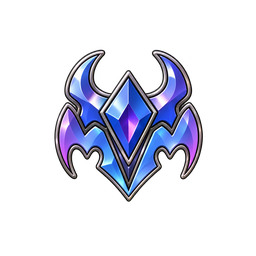
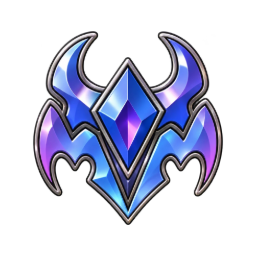
Scale the Sovereign badge to match the other gym badges

diff --git a/activities/pokemon-league/index.html b/activities/pokemon-league/index.html
@@ -20,7 +20,7 @@
 <p>There are eighteen main Gyms in Stellara, each specializing in a different Pokémon type and located within one of the region's settlements. Although other Gyms exist throughout Stellara, these eighteen are officially recognized as part of the main League circuit. Trainers only need to obtain <b>eight Gym Badges</b> to qualify for the Champion Cup, and Gyms may be challenged in any order.</p>
 <h2 id="gyms-and-badges">Gyms and Badges</h2>
 <p class="hint">Select a badge to see its Gym type and where the Gym is.</p>
-<div class="fl crests gyms" id="gym-badges"><div class="fc" style="--t:#aab7bd"><button class="fcb" type="button" aria-pressed="false" aria-label="Alloy Badge. Show the Gym type and place."><span class="in"><span class="f"><span class="art"><img src="../../assets/badges/256/steel.png" alt="" width="256" height="256" loading="lazy"></span><span class="nm">Alloy</span></span><span class="bk"><b>Alloy</b><span class="ty">Steel</span></span></span></button><a class="loc" href="../../region/settlements/cyngi-city/" hidden><svg viewBox="0 0 24 24" aria-hidden="true"><path d="M12 21s-6-5.4-6-10a6 6 0 0 1 12 0c0 4.6-6 10-6 10z"/><circle cx="12" cy="11" r="2.2"/></svg>Cyngi City</a></div><div class="fc" style="--t:#f2c14e"><button class="fcb" type="button" aria-pressed="false" aria-label="Voltage Badge. Show the Gym type and place."><span class="in"><span class="f"><span class="art"><img src="../../assets/badges/256/electric.png" alt="" width="256" height="256" loading="lazy"></span><span class="nm">Voltage</span></span><span class="bk"><b>Voltage</b><span class="ty">Electric</span></span></span></button><a class="loc" href="../../region/settlements/lacaille-city/" hidden><svg viewBox="0 0 24 24" aria-hidden="true"><path d="M12 21s-6-5.4-6-10a6 6 0 0 1 12 0c0 4.6-6 10-6 10z"/><circle cx="12" cy="11" r="2.2"/></svg>Lacaille City</a></div><div class="fc" style="--t:#c9a27a"><button class="fcb" type="button" aria-pressed="false" aria-label="Monolith Badge. Show the Gym type and place."><span class="in"><span class="f"><span class="art"><img src="../../assets/badges/256/rock.png" alt="" width="256" height="256" loading="lazy"></span><span class="nm">Monolith</span></span><span class="bk"><b>Monolith</b><span class="ty">Rock</span></span></span></button><a class="loc" href="../../region/settlements/pavo-town/" hidden><svg viewBox="0 0 24 24" aria-hidden="true"><path d="M12 21s-6-5.4-6-10a6 6 0 0 1 12 0c0 4.6-6 10-6 10z"/><circle cx="12" cy="11" r="2.2"/></svg>Pavo Town</a></div><div class="fc" style="--t:#9d8fc9"><button class="fcb" type="button" aria-pressed="false" aria-label="Eclipse Badge. Show the Gym type and place."><span class="in"><span class="f"><span class="art"><img src="../../assets/badges/256/dark.png" alt="" width="256" height="256" loading="lazy"></span><span class="nm">Eclipse</span></span><span class="bk"><b>Eclipse</b><span class="ty">Dark</span></span></span></button><a class="loc" href="../../region/settlements/vega-city/" hidden><svg viewBox="0 0 24 24" aria-hidden="true"><path d="M12 21s-6-5.4-6-10a6 6 0 0 1 12 0c0 4.6-6 10-6 10z"/><circle cx="12" cy="11" r="2.2"/></svg>Vega City</a></div><div class="fc" style="--t:#c4c4b0"><button class="fcb" type="button" aria-pressed="false" aria-label="Equilibrium Badge. Show the Gym type and place."><span class="in"><span class="f"><span class="art"><img src="../../assets/badges/256/normal.png" alt="" width="256" height="256" loading="lazy"></span><span class="nm">Equilibrium</span></span><span class="bk"><b>Equilibrium</b><span class="ty">Normal</span></span></span></button><a class="loc" href="../../region/settlements/rana-town/" hidden><svg viewBox="0 0 24 24" aria-hidden="true"><path d="M12 21s-6-5.4-6-10a6 6 0 0 1 12 0c0 4.6-6 10-6 10z"/><circle cx="12" cy="11" r="2.2"/></svg>Rana Town</a></div><div class="fc" style="--t:#ef5a67"><button class="fcb" type="button" aria-pressed="false" aria-label="Valor Badge. Show the Gym type and place."><span class="in"><span class="f"><span class="art"><img src="../../assets/badges/256/fighting.png" alt="" width="256" height="256" loading="lazy"></span><span class="nm">Valor</span></span><span class="bk"><b>Valor</b><span class="ty">Fighting</span></span></span></button><a class="loc" href="../../region/settlements/musca-town/" hidden><svg viewBox="0 0 24 24" aria-hidden="true"><path d="M12 21s-6-5.4-6-10a6 6 0 0 1 12 0c0 4.6-6 10-6 10z"/><circle cx="12" cy="11" r="2.2"/></svg>Musca Town</a></div><div class="fc" style="--t:#8fe3f0"><button class="fcb" type="button" aria-pressed="false" aria-label="Glacier Badge. Show the Gym type and place."><span class="in"><span class="f"><span class="art"><img src="../../assets/badges/256/ice.png" alt="" width="256" height="256" loading="lazy"></span><span class="nm">Glacier</span></span><span class="bk"><b>Glacier</b><span class="ty">Ice</span></span></span></button><a class="loc" href="../../region/settlements/nair-city/" hidden><svg viewBox="0 0 24 24" aria-hidden="true"><path d="M12 21s-6-5.4-6-10a6 6 0 0 1 12 0c0 4.6-6 10-6 10z"/><circle cx="12" cy="11" r="2.2"/></svg>Nair City</a></div><div class="fc" style="--t:#ff9a3c"><button class="fcb" type="button" aria-pressed="false" aria-label="Inferno Badge. Show the Gym type and place."><span class="in"><span class="f"><span class="art"><img src="../../assets/badges/256/fire.png" alt="" width="256" height="256" loading="lazy"></span><span class="nm">Inferno</span></span><span class="bk"><b>Inferno</b><span class="ty">Fire</span></span></span></button><a class="loc" href="../../region/settlements/hamal-town/" hidden><svg viewBox="0 0 24 24" aria-hidden="true"><path d="M12 21s-6-5.4-6-10a6 6 0 0 1 12 0c0 4.6-6 10-6 10z"/><circle cx="12" cy="11" r="2.2"/></svg>Hamal Town</a></div><div class="fc" style="--t:#6fe0a0"><button class="fcb" type="button" aria-pressed="false" aria-label="Verdant Badge. Show the Gym type and place."><span class="in"><span class="f"><span class="art"><img src="../../assets/badges/256/grass.png" alt="" width="256" height="256" loading="lazy"></span><span class="nm">Verdant</span></span><span class="bk"><b>Verdant</b><span class="ty">Grass</span></span></span></button><a class="loc" href="../../region/settlements/shaula-town/" hidden><svg viewBox="0 0 24 24" aria-hidden="true"><path d="M12 21s-6-5.4-6-10a6 6 0 0 1 12 0c0 4.6-6 10-6 10z"/><circle cx="12" cy="11" r="2.2"/></svg>Shaula Town</a></div><div class="fc" style="--t:#d6a86a"><button class="fcb" type="button" aria-pressed="false" aria-label="Terra Badge. Show the Gym type and place."><span class="in"><span class="f"><span class="art"><img src="../../assets/badges/256/ground.png" alt="" width="256" height="256" loading="lazy"></span><span class="nm">Terra</span></span><span class="bk"><b>Terra</b><span class="ty">Ground</span></span></span></button><a class="loc" href="../../region/settlements/saiph-city/" hidden><svg viewBox="0 0 24 24" aria-hidden="true"><path d="M12 21s-6-5.4-6-10a6 6 0 0 1 12 0c0 4.6-6 10-6 10z"/><circle cx="12" cy="11" r="2.2"/></svg>Saiph City</a></div><div class="fc" style="--t:#4cc9f0"><button class="fcb" type="button" aria-pressed="false" aria-label="Tidal Badge. Show the Gym type and place."><span class="in"><span class="f"><span class="art"><img src="../../assets/badges/256/water.png" alt="" width="256" height="256" loading="lazy"></span><span class="nm">Tidal</span></span><span class="bk"><b>Tidal</b><span class="ty">Water</span></span></span></button><a class="loc" href="../../region/settlements/eridani-city/" hidden><svg viewBox="0 0 24 24" aria-hidden="true"><path d="M12 21s-6-5.4-6-10a6 6 0 0 1 12 0c0 4.6-6 10-6 10z"/><circle cx="12" cy="11" r="2.2"/></svg>Eridani City</a></div><div class="fc" style="--t:#9bd650"><button class="fcb" type="button" aria-pressed="false" aria-label="Carapace Badge. Show the Gym type and place."><span class="in"><span class="f"><span class="art"><img src="../../assets/badges/256/bug.png" alt="" width="256" height="256" loading="lazy"></span><span class="nm">Carapace</span></span><span class="bk"><b>Carapace</b><span class="ty">Bug</span></span></span></button><a class="loc" href="../../region/settlements/antares-city/" hidden><svg viewBox="0 0 24 24" aria-hidden="true"><path d="M12 21s-6-5.4-6-10a6 6 0 0 1 12 0c0 4.6-6 10-6 10z"/><circle cx="12" cy="11" r="2.2"/></svg>Antares City</a></div><div class="fc" style="--t:#ff6fb5"><button class="fcb" type="button" aria-pressed="false" aria-label="Psyche Badge. Show the Gym type and place."><span class="in"><span class="f"><span class="art"><img src="../../assets/badges/256/psychic.png" alt="" width="256" height="256" loading="lazy"></span><span class="nm">Psyche</span></span><span class="bk"><b>Psyche</b><span class="ty">Psychic</span></span></span></button><a class="loc" href="../../region/settlements/mintaka-city/" hidden><svg viewBox="0 0 24 24" aria-hidden="true"><path d="M12 21s-6-5.4-6-10a6 6 0 0 1 12 0c0 4.6-6 10-6 10z"/><circle cx="12" cy="11" r="2.2"/></svg>Mintaka City</a></div><div class="fc" style="--t:#8fa8ff"><button class="fcb" type="button" aria-pressed="false" aria-label="Zephyr Badge. Show the Gym type and place."><span class="in"><span class="f"><span class="art"><img src="../../assets/badges/256/flying.png" alt="" width="256" height="256" loading="lazy"></span><span class="nm">Zephyr</span></span><span class="bk"><b>Zephyr</b><span class="ty">Flying</span></span></span></button><a class="loc" href="../../region/settlements/baltis-city/" hidden><svg viewBox="0 0 24 24" aria-hidden="true"><path d="M12 21s-6-5.4-6-10a6 6 0 0 1 12 0c0 4.6-6 10-6 10z"/><circle cx="12" cy="11" r="2.2"/></svg>Baltis City</a></div><div class="fc" style="--t:#5b7bff"><button class="fcb" type="button" aria-pressed="false" aria-label="Sovereign Badge. Show the Gym type and place."><span class="in"><span class="f"><span class="art"><img src="../../assets/badges/256/dragon.png?v=1794082401" alt="" width="256" height="256" loading="lazy"></span><span class="nm">Sovereign</span></span><span class="bk"><b>Sovereign</b><span class="ty">Dragon</span></span></span></button><a class="loc" href="../../region/settlements/altair-city/" hidden><svg viewBox="0 0 24 24" aria-hidden="true"><path d="M12 21s-6-5.4-6-10a6 6 0 0 1 12 0c0 4.6-6 10-6 10z"/><circle cx="12" cy="11" r="2.2"/></svg>Altair City</a></div><div class="fc" style="--t:#8c7ae6"><button class="fcb" type="button" aria-pressed="false" aria-label="Phantom Badge. Show the Gym type and place."><span class="in"><span class="f"><span class="art"><img src="../../assets/badges/256/ghost.png" alt="" width="256" height="256" loading="lazy"></span><span class="nm">Phantom</span></span><span class="bk"><b>Phantom</b><span class="ty">Ghost</span></span></span></button><a class="loc" href="../../region/settlements/menkent-town/" hidden><svg viewBox="0 0 24 24" aria-hidden="true"><path d="M12 21s-6-5.4-6-10a6 6 0 0 1 12 0c0 4.6-6 10-6 10z"/><circle cx="12" cy="11" r="2.2"/></svg>Menkent Town</a></div><div class="fc" style="--t:#ff9ad5"><button class="fcb" type="button" aria-pressed="false" aria-label="Enchantment Badge. Show the Gym type and place."><span class="in"><span class="f"><span class="art"><img src="../../assets/badges/256/fairy.png" alt="" width="256" height="256" loading="lazy"></span><span class="nm">Enchantment</span></span><span class="bk"><b>Enchantment</b><span class="ty">Fairy</span></span></span></button><a class="loc" href="../../region/settlements/celaeno-town/" hidden><svg viewBox="0 0 24 24" aria-hidden="true"><path d="M12 21s-6-5.4-6-10a6 6 0 0 1 12 0c0 4.6-6 10-6 10z"/><circle cx="12" cy="11" r="2.2"/></svg>Celaeno Town</a></div><div class="fc" style="--t:#b690ff"><button class="fcb" type="button" aria-pressed="false" aria-label="Venom Badge. Show the Gym type and place."><span class="in"><span class="f"><span class="art"><img src="../../assets/badges/256/poison.png" alt="" width="256" height="256" loading="lazy"></span><span class="nm">Venom</span></span><span class="bk"><b>Venom</b><span class="ty">Poison</span></span></span></button><a class="loc" href="../../region/settlements/sabik-town/" hidden><svg viewBox="0 0 24 24" aria-hidden="true"><path d="M12 21s-6-5.4-6-10a6 6 0 0 1 12 0c0 4.6-6 10-6 10z"/><circle cx="12" cy="11" r="2.2"/></svg>Sabik Town</a></div></div>
+<div class="fl crests gyms" id="gym-badges"><div class="fc" style="--t:#aab7bd"><button class="fcb" type="button" aria-pressed="false" aria-label="Alloy Badge. Show the Gym type and place."><span class="in"><span class="f"><span class="art"><img src="../../assets/badges/256/steel.png" alt="" width="256" height="256" loading="lazy"></span><span class="nm">Alloy</span></span><span class="bk"><b>Alloy</b><span class="ty">Steel</span></span></span></button><a class="loc" href="../../region/settlements/cyngi-city/" hidden><svg viewBox="0 0 24 24" aria-hidden="true"><path d="M12 21s-6-5.4-6-10a6 6 0 0 1 12 0c0 4.6-6 10-6 10z"/><circle cx="12" cy="11" r="2.2"/></svg>Cyngi City</a></div><div class="fc" style="--t:#f2c14e"><button class="fcb" type="button" aria-pressed="false" aria-label="Voltage Badge. Show the Gym type and place."><span class="in"><span class="f"><span class="art"><img src="../../assets/badges/256/electric.png" alt="" width="256" height="256" loading="lazy"></span><span class="nm">Voltage</span></span><span class="bk"><b>Voltage</b><span class="ty">Electric</span></span></span></button><a class="loc" href="../../region/settlements/lacaille-city/" hidden><svg viewBox="0 0 24 24" aria-hidden="true"><path d="M12 21s-6-5.4-6-10a6 6 0 0 1 12 0c0 4.6-6 10-6 10z"/><circle cx="12" cy="11" r="2.2"/></svg>Lacaille City</a></div><div class="fc" style="--t:#c9a27a"><button class="fcb" type="button" aria-pressed="false" aria-label="Monolith Badge. Show the Gym type and place."><span class="in"><span class="f"><span class="art"><img src="../../assets/badges/256/rock.png" alt="" width="256" height="256" loading="lazy"></span><span class="nm">Monolith</span></span><span class="bk"><b>Monolith</b><span class="ty">Rock</span></span></span></button><a class="loc" href="../../region/settlements/pavo-town/" hidden><svg viewBox="0 0 24 24" aria-hidden="true"><path d="M12 21s-6-5.4-6-10a6 6 0 0 1 12 0c0 4.6-6 10-6 10z"/><circle cx="12" cy="11" r="2.2"/></svg>Pavo Town</a></div><div class="fc" style="--t:#9d8fc9"><button class="fcb" type="button" aria-pressed="false" aria-label="Eclipse Badge. Show the Gym type and place."><span class="in"><span class="f"><span class="art"><img src="../../assets/badges/256/dark.png" alt="" width="256" height="256" loading="lazy"></span><span class="nm">Eclipse</span></span><span class="bk"><b>Eclipse</b><span class="ty">Dark</span></span></span></button><a class="loc" href="../../region/settlements/vega-city/" hidden><svg viewBox="0 0 24 24" aria-hidden="true"><path d="M12 21s-6-5.4-6-10a6 6 0 0 1 12 0c0 4.6-6 10-6 10z"/><circle cx="12" cy="11" r="2.2"/></svg>Vega City</a></div><div class="fc" style="--t:#c4c4b0"><button class="fcb" type="button" aria-pressed="false" aria-label="Equilibrium Badge. Show the Gym type and place."><span class="in"><span class="f"><span class="art"><img src="../../assets/badges/256/normal.png" alt="" width="256" height="256" loading="lazy"></span><span class="nm">Equilibrium</span></span><span class="bk"><b>Equilibrium</b><span class="ty">Normal</span></span></span></button><a class="loc" href="../../region/settlements/rana-town/" hidden><svg viewBox="0 0 24 24" aria-hidden="true"><path d="M12 21s-6-5.4-6-10a6 6 0 0 1 12 0c0 4.6-6 10-6 10z"/><circle cx="12" cy="11" r="2.2"/></svg>Rana Town</a></div><div class="fc" style="--t:#ef5a67"><button class="fcb" type="button" aria-pressed="false" aria-label="Valor Badge. Show the Gym type and place."><span class="in"><span class="f"><span class="art"><img src="../../assets/badges/256/fighting.png" alt="" width="256" height="256" loading="lazy"></span><span class="nm">Valor</span></span><span class="bk"><b>Valor</b><span class="ty">Fighting</span></span></span></button><a class="loc" href="../../region/settlements/musca-town/" hidden><svg viewBox="0 0 24 24" aria-hidden="true"><path d="M12 21s-6-5.4-6-10a6 6 0 0 1 12 0c0 4.6-6 10-6 10z"/><circle cx="12" cy="11" r="2.2"/></svg>Musca Town</a></div><div class="fc" style="--t:#8fe3f0"><button class="fcb" type="button" aria-pressed="false" aria-label="Glacier Badge. Show the Gym type and place."><span class="in"><span class="f"><span class="art"><img src="../../assets/badges/256/ice.png" alt="" width="256" height="256" loading="lazy"></span><span class="nm">Glacier</span></span><span class="bk"><b>Glacier</b><span class="ty">Ice</span></span></span></button><a class="loc" href="../../region/settlements/nair-city/" hidden><svg viewBox="0 0 24 24" aria-hidden="true"><path d="M12 21s-6-5.4-6-10a6 6 0 0 1 12 0c0 4.6-6 10-6 10z"/><circle cx="12" cy="11" r="2.2"/></svg>Nair City</a></div><div class="fc" style="--t:#ff9a3c"><button class="fcb" type="button" aria-pressed="false" aria-label="Inferno Badge. Show the Gym type and place."><span class="in"><span class="f"><span class="art"><img src="../../assets/badges/256/fire.png" alt="" width="256" height="256" loading="lazy"></span><span class="nm">Inferno</span></span><span class="bk"><b>Inferno</b><span class="ty">Fire</span></span></span></button><a class="loc" href="../../region/settlements/hamal-town/" hidden><svg viewBox="0 0 24 24" aria-hidden="true"><path d="M12 21s-6-5.4-6-10a6 6 0 0 1 12 0c0 4.6-6 10-6 10z"/><circle cx="12" cy="11" r="2.2"/></svg>Hamal Town</a></div><div class="fc" style="--t:#6fe0a0"><button class="fcb" type="button" aria-pressed="false" aria-label="Verdant Badge. Show the Gym type and place."><span class="in"><span class="f"><span class="art"><img src="../../assets/badges/256/grass.png" alt="" width="256" height="256" loading="lazy"></span><span class="nm">Verdant</span></span><span class="bk"><b>Verdant</b><span class="ty">Grass</span></span></span></button><a class="loc" href="../../region/settlements/shaula-town/" hidden><svg viewBox="0 0 24 24" aria-hidden="true"><path d="M12 21s-6-5.4-6-10a6 6 0 0 1 12 0c0 4.6-6 10-6 10z"/><circle cx="12" cy="11" r="2.2"/></svg>Shaula Town</a></div><div class="fc" style="--t:#d6a86a"><button class="fcb" type="button" aria-pressed="false" aria-label="Terra Badge. Show the Gym type and place."><span class="in"><span class="f"><span class="art"><img src="../../assets/badges/256/ground.png" alt="" width="256" height="256" loading="lazy"></span><span class="nm">Terra</span></span><span class="bk"><b>Terra</b><span class="ty">Ground</span></span></span></button><a class="loc" href="../../region/settlements/saiph-city/" hidden><svg viewBox="0 0 24 24" aria-hidden="true"><path d="M12 21s-6-5.4-6-10a6 6 0 0 1 12 0c0 4.6-6 10-6 10z"/><circle cx="12" cy="11" r="2.2"/></svg>Saiph City</a></div><div class="fc" style="--t:#4cc9f0"><button class="fcb" type="button" aria-pressed="false" aria-label="Tidal Badge. Show the Gym type and place."><span class="in"><span class="f"><span class="art"><img src="../../assets/badges/256/water.png" alt="" width="256" height="256" loading="lazy"></span><span class="nm">Tidal</span></span><span class="bk"><b>Tidal</b><span class="ty">Water</span></span></span></button><a class="loc" href="../../region/settlements/eridani-city/" hidden><svg viewBox="0 0 24 24" aria-hidden="true"><path d="M12 21s-6-5.4-6-10a6 6 0 0 1 12 0c0 4.6-6 10-6 10z"/><circle cx="12" cy="11" r="2.2"/></svg>Eridani City</a></div><div class="fc" style="--t:#9bd650"><button class="fcb" type="button" aria-pressed="false" aria-label="Carapace Badge. Show the Gym type and place."><span class="in"><span class="f"><span class="art"><img src="../../assets/badges/256/bug.png" alt="" width="256" height="256" loading="lazy"></span><span class="nm">Carapace</span></span><span class="bk"><b>Carapace</b><span class="ty">Bug</span></span></span></button><a class="loc" href="../../region/settlements/antares-city/" hidden><svg viewBox="0 0 24 24" aria-hidden="true"><path d="M12 21s-6-5.4-6-10a6 6 0 0 1 12 0c0 4.6-6 10-6 10z"/><circle cx="12" cy="11" r="2.2"/></svg>Antares City</a></div><div class="fc" style="--t:#ff6fb5"><button class="fcb" type="button" aria-pressed="false" aria-label="Psyche Badge. Show the Gym type and place."><span class="in"><span class="f"><span class="art"><img src="../../assets/badges/256/psychic.png" alt="" width="256" height="256" loading="lazy"></span><span class="nm">Psyche</span></span><span class="bk"><b>Psyche</b><span class="ty">Psychic</span></span></span></button><a class="loc" href="../../region/settlements/mintaka-city/" hidden><svg viewBox="0 0 24 24" aria-hidden="true"><path d="M12 21s-6-5.4-6-10a6 6 0 0 1 12 0c0 4.6-6 10-6 10z"/><circle cx="12" cy="11" r="2.2"/></svg>Mintaka City</a></div><div class="fc" style="--t:#8fa8ff"><button class="fcb" type="button" aria-pressed="false" aria-label="Zephyr Badge. Show the Gym type and place."><span class="in"><span class="f"><span class="art"><img src="../../assets/badges/256/flying.png" alt="" width="256" height="256" loading="lazy"></span><span class="nm">Zephyr</span></span><span class="bk"><b>Zephyr</b><span class="ty">Flying</span></span></span></button><a class="loc" href="../../region/settlements/baltis-city/" hidden><svg viewBox="0 0 24 24" aria-hidden="true"><path d="M12 21s-6-5.4-6-10a6 6 0 0 1 12 0c0 4.6-6 10-6 10z"/><circle cx="12" cy="11" r="2.2"/></svg>Baltis City</a></div><div class="fc" style="--t:#5b7bff"><button class="fcb" type="button" aria-pressed="false" aria-label="Sovereign Badge. Show the Gym type and place."><span class="in"><span class="f"><span class="art"><img src="../../assets/badges/256/dragon.png?v=1794082588" alt="" width="256" height="256" loading="lazy"></span><span class="nm">Sovereign</span></span><span class="bk"><b>Sovereign</b><span class="ty">Dragon</span></span></span></button><a class="loc" href="../../region/settlements/altair-city/" hidden><svg viewBox="0 0 24 24" aria-hidden="true"><path d="M12 21s-6-5.4-6-10a6 6 0 0 1 12 0c0 4.6-6 10-6 10z"/><circle cx="12" cy="11" r="2.2"/></svg>Altair City</a></div><div class="fc" style="--t:#8c7ae6"><button class="fcb" type="button" aria-pressed="false" aria-label="Phantom Badge. Show the Gym type and place."><span class="in"><span class="f"><span class="art"><img src="../../assets/badges/256/ghost.png" alt="" width="256" height="256" loading="lazy"></span><span class="nm">Phantom</span></span><span class="bk"><b>Phantom</b><span class="ty">Ghost</span></span></span></button><a class="loc" href="../../region/settlements/menkent-town/" hidden><svg viewBox="0 0 24 24" aria-hidden="true"><path d="M12 21s-6-5.4-6-10a6 6 0 0 1 12 0c0 4.6-6 10-6 10z"/><circle cx="12" cy="11" r="2.2"/></svg>Menkent Town</a></div><div class="fc" style="--t:#ff9ad5"><button class="fcb" type="button" aria-pressed="false" aria-label="Enchantment Badge. Show the Gym type and place."><span class="in"><span class="f"><span class="art"><img src="../../assets/badges/256/fairy.png" alt="" width="256" height="256" loading="lazy"></span><span class="nm">Enchantment</span></span><span class="bk"><b>Enchantment</b><span class="ty">Fairy</span></span></span></button><a class="loc" href="../../region/settlements/celaeno-town/" hidden><svg viewBox="0 0 24 24" aria-hidden="true"><path d="M12 21s-6-5.4-6-10a6 6 0 0 1 12 0c0 4.6-6 10-6 10z"/><circle cx="12" cy="11" r="2.2"/></svg>Celaeno Town</a></div><div class="fc" style="--t:#b690ff"><button class="fcb" type="button" aria-pressed="false" aria-label="Venom Badge. Show the Gym type and place."><span class="in"><span class="f"><span class="art"><img src="../../assets/badges/256/poison.png" alt="" width="256" height="256" loading="lazy"></span><span class="nm">Venom</span></span><span class="bk"><b>Venom</b><span class="ty">Poison</span></span></span></button><a class="loc" href="../../region/settlements/sabik-town/" hidden><svg viewBox="0 0 24 24" aria-hidden="true"><path d="M12 21s-6-5.4-6-10a6 6 0 0 1 12 0c0 4.6-6 10-6 10z"/><circle cx="12" cy="11" r="2.2"/></svg>Sabik Town</a></div></div>
 <noscript><ul class="plain"><li><a href="../../region/settlements/cyngi-city/">Cyngi City</a>: Steel, Alloy Badge</li><li><a href="../../region/settlements/lacaille-city/">Lacaille City</a>: Electric, Voltage Badge</li><li><a href="../../region/settlements/pavo-town/">Pavo Town</a>: Rock, Monolith Badge</li><li><a href="../../region/settlements/vega-city/">Vega City</a>: Dark, Eclipse Badge</li><li><a href="../../region/settlements/rana-town/">Rana Town</a>: Normal, Equilibrium Badge</li><li><a href="../../region/settlements/musca-town/">Musca Town</a>: Fighting, Valor Badge</li><li><a href="../../region/settlements/nair-city/">Nair City</a>: Ice, Glacier Badge</li><li><a href="../../region/settlements/hamal-town/">Hamal Town</a>: Fire, Inferno Badge</li><li><a href="../../region/settlements/shaula-town/">Shaula Town</a>: Grass, Verdant Badge</li><li><a href="../../region/settlements/saiph-city/">Saiph City</a>: Ground, Terra Badge</li><li><a href="../../region/settlements/eridani-city/">Eridani City</a>: Water, Tidal Badge</li><li><a href="../../region/settlements/antares-city/">Antares City</a>: Bug, Carapace Badge</li><li><a href="../../region/settlements/mintaka-city/">Mintaka City</a>: Psychic, Psyche Badge</li><li><a href="../../region/settlements/baltis-city/">Baltis City</a>: Flying, Zephyr Badge</li><li><a href="../../region/settlements/altair-city/">Altair City</a>: Dragon, Sovereign Badge</li><li><a href="../../region/settlements/menkent-town/">Menkent Town</a>: Ghost, Phantom Badge</li><li><a href="../../region/settlements/celaeno-town/">Celaeno Town</a>: Fairy, Enchantment Badge</li><li><a href="../../region/settlements/sabik-town/">Sabik Town</a>: Poison, Venom Badge</li></ul></noscript>
 <h2 id="gym-challenges">Gym Challenges</h2>
 <p>Gym challenges become progressively more difficult depending on how many badges a Trainer has earned. Gym Leaders will adjust their Pokémon and strategies to provide an appropriate challenge, preventing experienced Trainers from simply overwhelming weaker teams. The following guidelines describe the average Pokémon Tier a Gym Leader will use based on the challenger's current badge count.</p>
